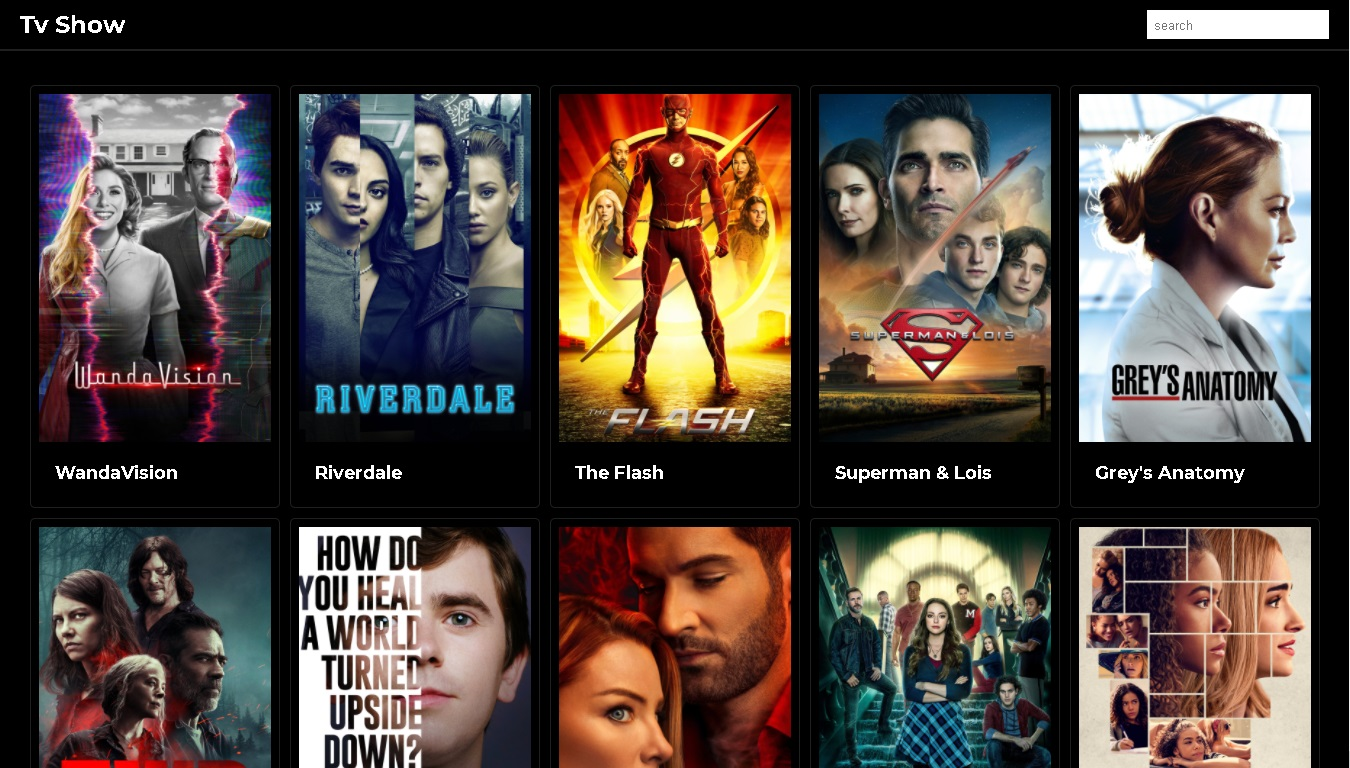
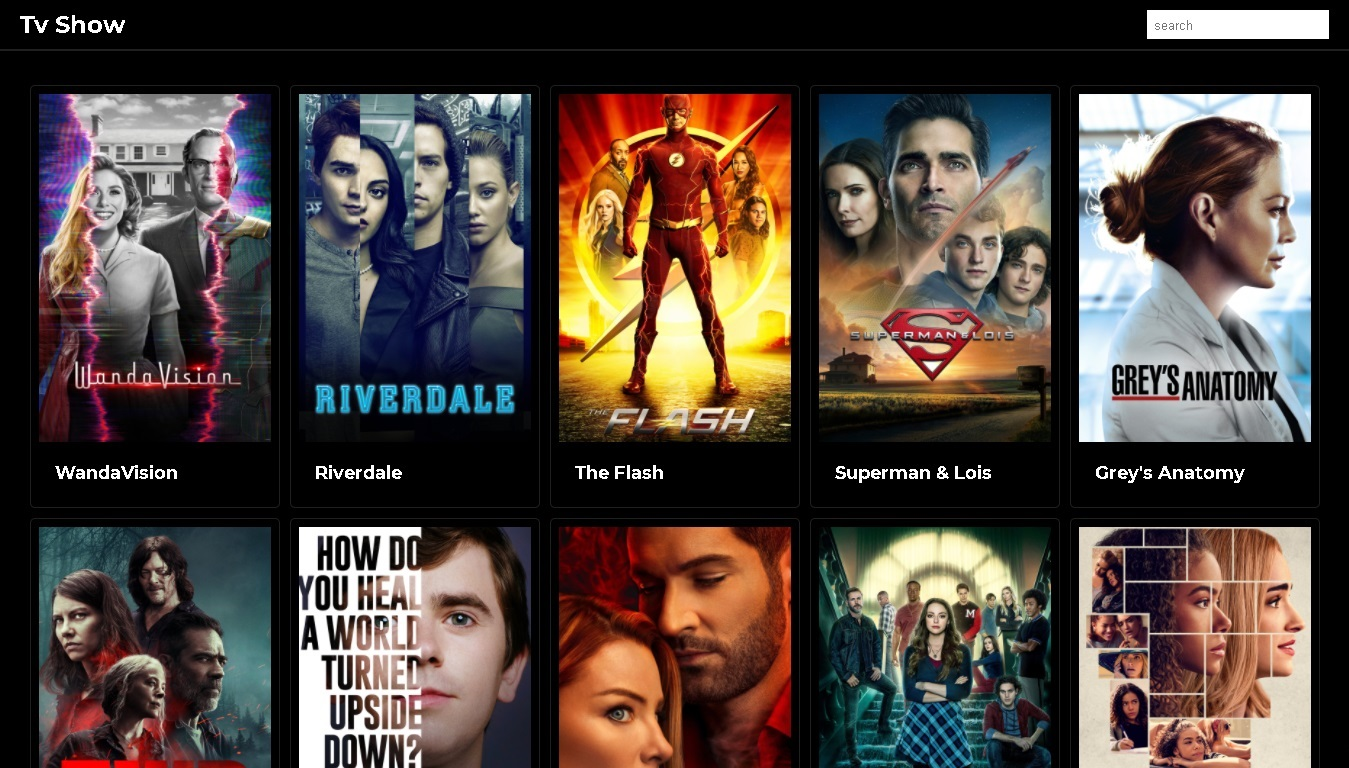
Update

diff --git a/js/script.js b/js/script.js
@@ -11,52 +11,85 @@ const searchEl = document.querySelector(".search");
 const backBtn = document.querySelector(".back-btn");
 
 async function getTvShow(url) {
-  const res = await fetch(url);
-  const data = await res.json();
+  const response = await fetch(url);
+  const data = await response.json();
 
   showTv(data.results);
 }
-
-getTvShow(popularShowUrl);
 
 function showTv(query) {
   cardEl.innerHTML = "";
 
   query.forEach((tvShow) => {
-    let cardInnerEl = document.createElement("div");
+    const cardInnerEl = document.createElement("div");
     cardInnerEl.classList.add("card-inner");
 
-    cardInnerEl.innerHTML = `
-      <img src=${imgUrl + tvShow.poster_path}>
-      <div class="card-name">${tvShow.name}</div>
-    `;
+    if (tvShow.poster_path === null) {
+      cardInnerEl.innerHTML = `
+        <img src="./img/poster-not-found.jpg">
+        <div class="card-name">${tvShow.name}</div>
+      `;
+    } else {
+      cardInnerEl.innerHTML = `
+        <img src=${imgUrl + tvShow.poster_path}>
+        <div class="card-name">${tvShow.name}</div>
+      `;
+    }
 
-    cardEl.appendChild(cardInnerEl);
-
-    let modalInnerEl = document.createElement("div");
+    const modalInnerEl = document.createElement("div");
     modalInnerEl.classList.add("modal-inner");
 
-    modalInnerEl.innerHTML = `
-      <div class="modal-btn">
-        <button type="button">&times;</button>
-      </div>
-      <div class="modal-bg">
-        <img src=${imgUrl + tvShow.backdrop_path}>
-      </div>
-      <div class="modal-text">
-        <div class="name">
-          <span>${tvShow.vote_average}</span>
-          <h2>
-            ${tvShow.name}
-            <div class="year">
-              (${tvShow.first_air_date.slice(0, 4)})
-            </div>
-          </h2>
+    if (
+      tvShow.backdrop_path === null ||
+      tvShow.first_air_date === "" ||
+      tvShow.origin_country[0] === undefined
+    ) {
+      modalInnerEl.innerHTML = `
+        <div class="modal-btn">
+          <button type="button">&times;</button>
         </div>
-        <div class="overview">${tvShow.overview}</div>
-        <div>Country: ${tvShow.origin_country[0]}</div>
-      </div>
-    `;
+        <div class="modal-bg">
+          <img src="./img/backdrop-not-found.jpg">
+        </div>
+        <div class="modal-text">
+          <div class="name">
+            <span>${tvShow.vote_average}</span>
+            <h2>
+              ${tvShow.name}
+              <div class="year">
+                (Not Found)
+              </div>
+            </h2>
+          </div>
+          <div class="overview">${tvShow.overview}</div>
+          <div>Country: Not Found</div>
+        </div>
+      `;
+    } else {
+      modalInnerEl.innerHTML = `
+        <div class="modal-btn">
+          <button type="button">&times;</button>
+        </div>
+        <div class="modal-bg">
+          <img src=${imgUrl + tvShow.backdrop_path}>
+        </div>
+        <div class="modal-text">
+          <div class="name">
+            <span>${tvShow.vote_average}</span>
+            <h2>
+              ${tvShow.name}
+              <div class="year">
+                (${tvShow.first_air_date.slice(0, 4)})
+              </div>
+            </h2>
+          </div>
+          <div class="overview">${tvShow.overview}</div>
+          <div>Country: ${tvShow.origin_country[0]}</div>
+        </div>
+      `;
+    }
+
+    cardEl.appendChild(cardInnerEl);
 
     cardInnerEl.addEventListener("click", () => {
       modalEl.appendChild(modalInnerEl);
@@ -73,6 +106,8 @@ function showTv(query) {
     });
   });
 }
+
+getTvShow(popularShowUrl);
 
 formEl.addEventListener("submit", (e) => {
   e.preventDefault();

diff --git a/css/style.css b/css/style.css
@@ -215,7 +215,7 @@ body {
 
 @media (max-width: 500px) {
   .card {
-    padding-top: 96px;
+    padding-top: 100px;
   }
 }
 
@@ -241,7 +241,7 @@ body {
 .back-btn {
   color: #fff;
   font-size: 24px;
-  border: 1px solid #fff;
+  border: 1px solid #1f1f1f;
   border-radius: 5px;
   cursor: pointer;
   display: none;
